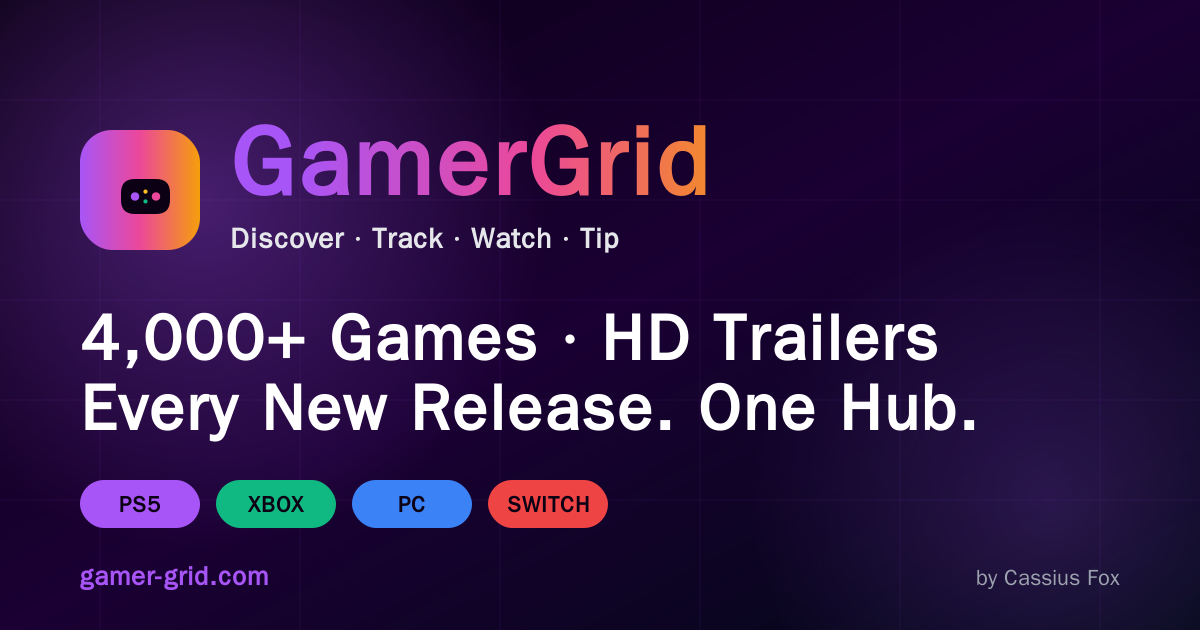
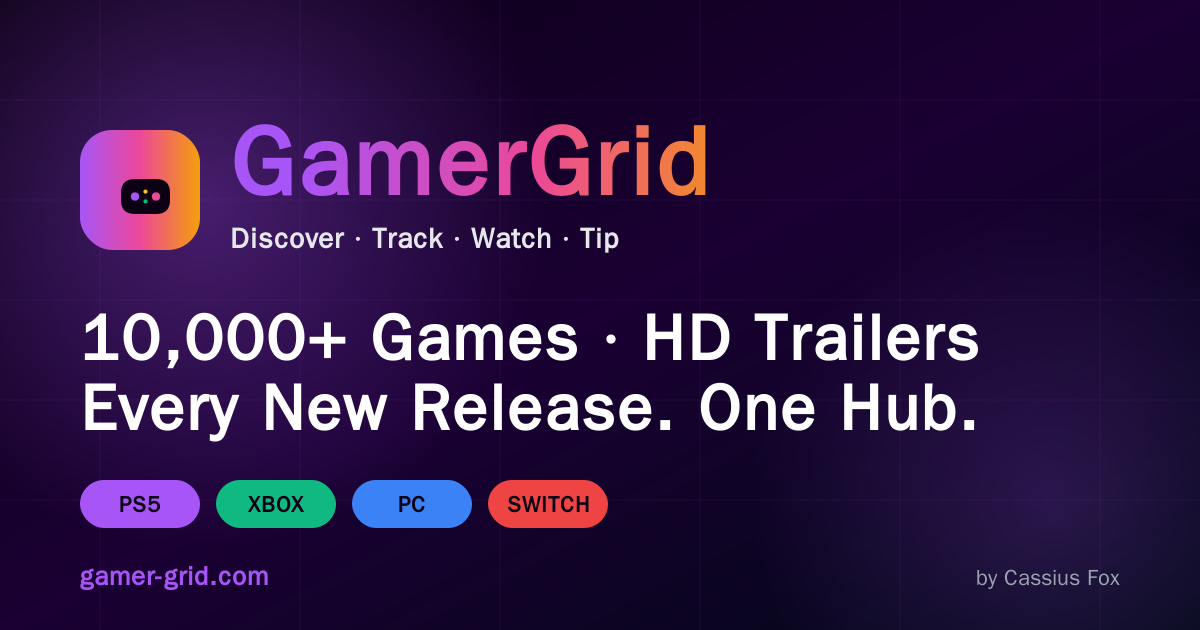
auto-commit for 9986a1b3-d4b0-48ed-92b7-a2ff180ae3e8

Changed region(s): [[0.2158, 0.4825, 0.8325, 0.573], [0.0617, 0.4825, 0.1542, 0.573]]

diff --git a/frontend/src/pages/BrowseAllPage.jsx b/frontend/src/pages/BrowseAllPage.jsx
@@ -84,10 +84,10 @@ const BrowseAllPage = () => {
       // PlayStation and Xbox get the deepest catalog (1500 each) so newer/niche
       // titles (e.g. AC Shadows) surface alongside the all-time greats.
       const platformLimit = (key) => {
-        if (key === 'playstation') return 1500;
-        if (key === 'xbox') return 1500;
-        if (key === 'pc') return 500;
-        if (key === 'switch') return 500;
+        if (key === 'playstation') return 4000;
+        if (key === 'xbox') return 4000;
+        if (key === 'pc') return 1500;
+        if (key === 'switch') return 1000;
         return 500;
       };
       const generalLimit = '350';

diff --git a/frontend/public/index.html b/frontend/public/index.html
@@ -7,7 +7,7 @@
 
         <!-- Primary SEO -->
         <title>GamerGrid — Discover Games, Watch Trailers & Track Releases | PS5 · Xbox · PC · Switch</title>
-        <meta name="description" content="GamerGrid is the ultimate gaming hub for PS5, Xbox, PC & Switch. Browse 4,000+ games, watch HD trailers, track new releases, read reviews, and find live deals. Built by gamers, for gamers." />
+        <meta name="description" content="GamerGrid is the ultimate gaming hub for PS5, Xbox, PC & Switch. Browse 10,000+ games, watch HD trailers, track new releases, read reviews, and find live deals. Built by gamers, for gamers." />
         <meta name="keywords" content="GamerGrid, video games, PS5 games, Xbox games, PC gaming, Nintendo Switch, game trailers, game reviews, game release tracker, IGDB, gaming news" />
         <meta name="author" content="Cassius Fox" />
         <meta name="robots" content="index, follow, max-image-preview:large, max-snippet:-1, max-video-preview:-1" />
@@ -25,7 +25,7 @@
         <meta property="og:type" content="website" />
         <meta property="og:site_name" content="GamerGrid" />
         <meta property="og:title" content="GamerGrid — Discover Games, Watch Trailers & Track Releases" />
-        <meta property="og:description" content="The ultimate gaming hub for PS5, Xbox, PC & Switch. Browse 4,000+ games, watch HD trailers, track releases, and find live deals." />
+        <meta property="og:description" content="The ultimate gaming hub for PS5, Xbox, PC & Switch. Browse 10,000+ games, watch HD trailers, track releases, and find live deals." />
         <meta property="og:url" content="https://gamer-grid.com/" />
         <meta property="og:image" content="https://gamer-grid.com/og-cover.png" />
         <meta property="og:image:width" content="1200" />
@@ -36,7 +36,7 @@
         <!-- Twitter / X Card -->
         <meta name="twitter:card" content="summary_large_image" />
         <meta name="twitter:title" content="GamerGrid — Discover Games, Watch Trailers & Track Releases" />
-        <meta name="twitter:description" content="The ultimate gaming hub for PS5, Xbox, PC & Switch. Browse 4,000+ games, watch HD trailers, track releases, find live deals." />
+        <meta name="twitter:description" content="The ultimate gaming hub for PS5, Xbox, PC & Switch. Browse 10,000+ games, watch HD trailers, track releases, find live deals." />
         <meta name="twitter:image" content="https://gamer-grid.com/og-cover.png" />
 
         <!-- Structured data — WebSite (enables Google sitelinks search box) + Organization -->

diff --git a/frontend/src/components/GuestMarketingHero.jsx b/frontend/src/components/GuestMarketingHero.jsx
@@ -37,7 +37,7 @@ const GuestMarketingHero = ({ onTakeTour, onSignUp }) => {
             </h1>
 
             <p className="text-white/75 text-base sm:text-lg mb-5 leading-relaxed">
-              1,000+ titles for PS5, Xbox, PC and Switch. HD trailers, screenshots, live deals,
+              10,000+ titles for PS5, Xbox, PC and Switch. HD trailers, screenshots, live deals,
               community reviews — all free, no install required.
             </p>
 

diff --git a/frontend/src/components/ShareButton.jsx b/frontend/src/components/ShareButton.jsx
@@ -22,7 +22,7 @@ const ShareButton = ({ variant = 'default', size = 'default', showText = true })
   const shareMessage = `🎮 Check out GamerGrid — Ultimate Gaming Discovery Hub!
 
 ✨ Features:
-• Discover 1,000+ games across PS5, Xbox, PC & Switch
+• Discover 10,000+ games across PS5, Xbox, PC & Switch
 • Watch HD trailers & gameplay
 • Build your game library
 • Live PC deals & price tracking

diff --git a/frontend/src/components/WhatsNewButton.jsx b/frontend/src/components/WhatsNewButton.jsx
@@ -8,7 +8,7 @@ const CURRENT_VERSION = '2026.02.26';
 
 const ENTRIES = [
   {
-    title: '1,000+ games — fresh categories',
+    title: '10,000+ games — fresh categories',
     body: '350 PlayStation, 250 Xbox, 250 PC and 200 Switch titles. Plus new homepage rails for RPG, Shooters, Open World, Sci-Fi, Horror, Racing and Indie Gems.',
     emoji: '🎮',
   },

diff --git a/backend/routes/game_routes.py b/backend/routes/game_routes.py
@@ -602,7 +602,7 @@ async def get_new_releases(
 async def get_games_by_platform(
     platform_name: str,
     limit: int = Query(40, ge=1, le=500),
-    offset: int = Query(0, ge=0, le=4500),
+    offset: int = Query(0, ge=0, le=9500),
     sort: str = Query("rating", pattern="^(rating|release|popular)$"),
     genre: Optional[int] = None,
     year: Optional[int] = Query(None, ge=1970, le=2100),

diff --git a/memory/PRD.md b/memory/PRD.md
@@ -18,7 +18,13 @@ support payments.
 - Hosting: Emergent (preview + deploy)
 
 ## Implemented (✅ as of 2026-02-28)
-### Iteration 34 (this turn — affiliate price-compare widget on every game)
+### Iteration 35 (this turn — catalog expanded to 10,000+ + copy refresh)
+- 🎮 **Catalog: 4,000 → 10,500 raw slots.** Bumped platformLimit: PS 1500→4000, Xbox 1500→4000, PC 500→1500, Switch 500→1000. Backend offset cap raised from 4500 → 9500.
+- 📝 **Copy refresh everywhere:** `GuestMarketingHero.jsx`, `ShareButton.jsx`, `WhatsNewButton.jsx`, `index.html` meta description, OpenGraph, Twitter Card — all say **"10,000+ games/titles"**.
+- 🎨 **Regenerated `og-cover.png`** with "10,000+ Games · HD Trailers" headline so Google + social previews reflect new scale.
+- ✅ Verified offset=3500 returns 500 results for both PS and Xbox. Lint clean.
+
+### Iteration 34 (affiliate price-compare widget on every game)
 - 💰 **`PriceCompare.jsx`** replaces the basic "Live PC deals" grid in `ContentModal`. Combines:
   - Live PC store prices from CheapShark (Steam, GOG, Epic, Humble, GreenManGaming, Fanatical, etc.) — already fetched, just better presentation
   - Console retailer affiliate links from `buy_links` (Amazon, GameStop, PSN, Xbox Store, Nintendo eShop)